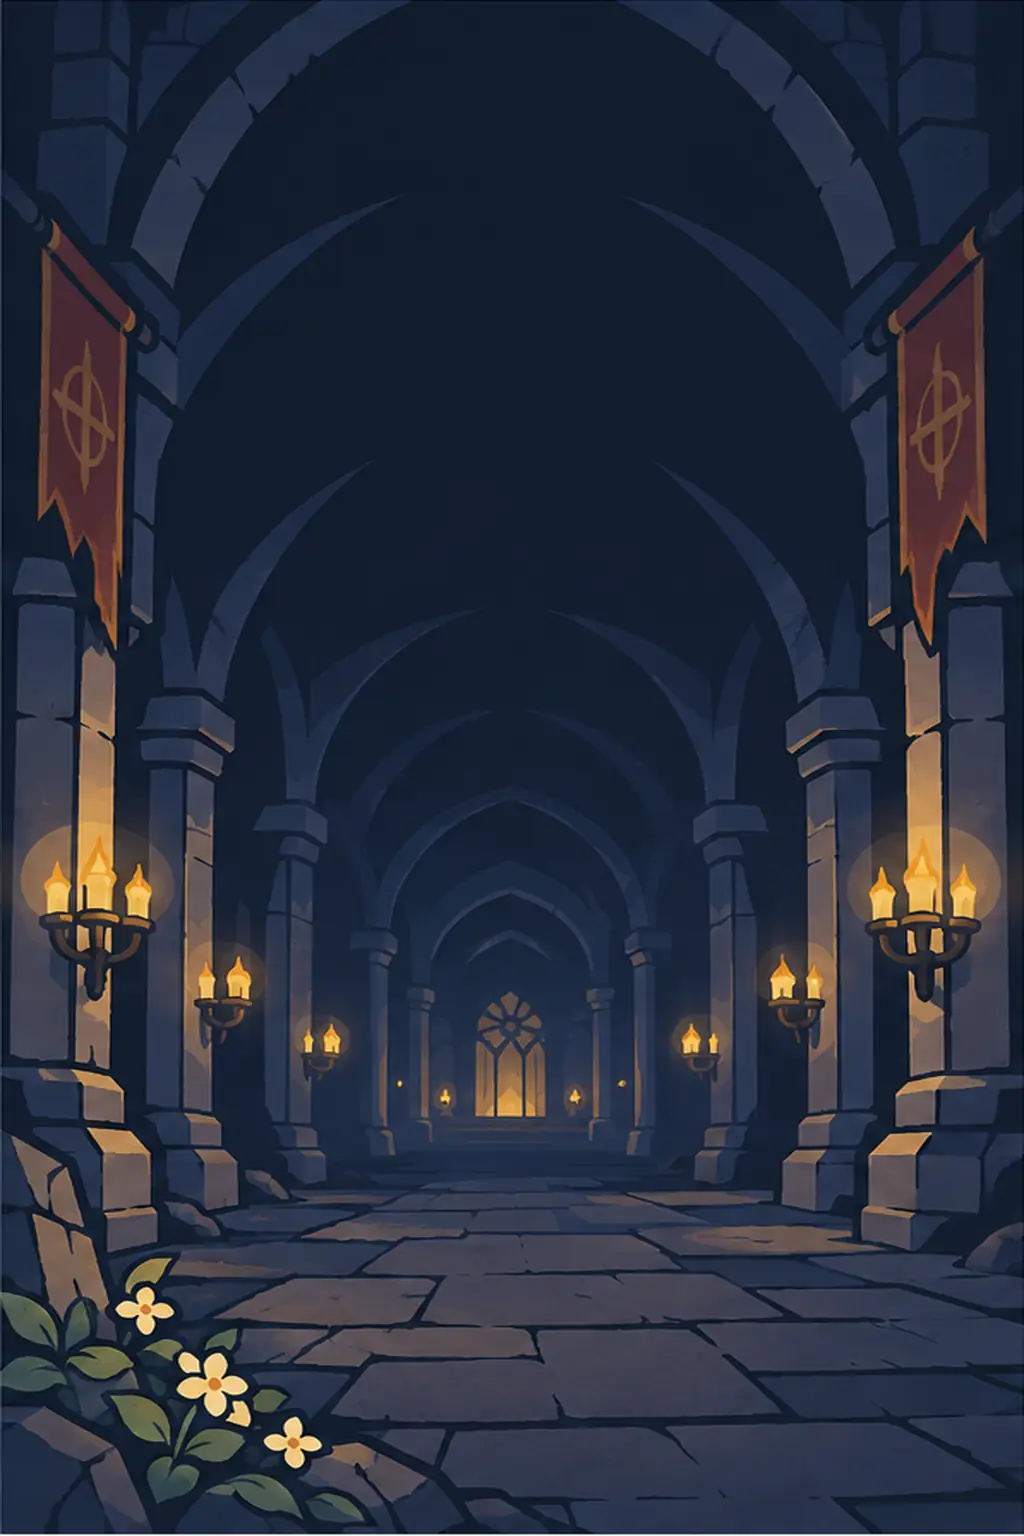
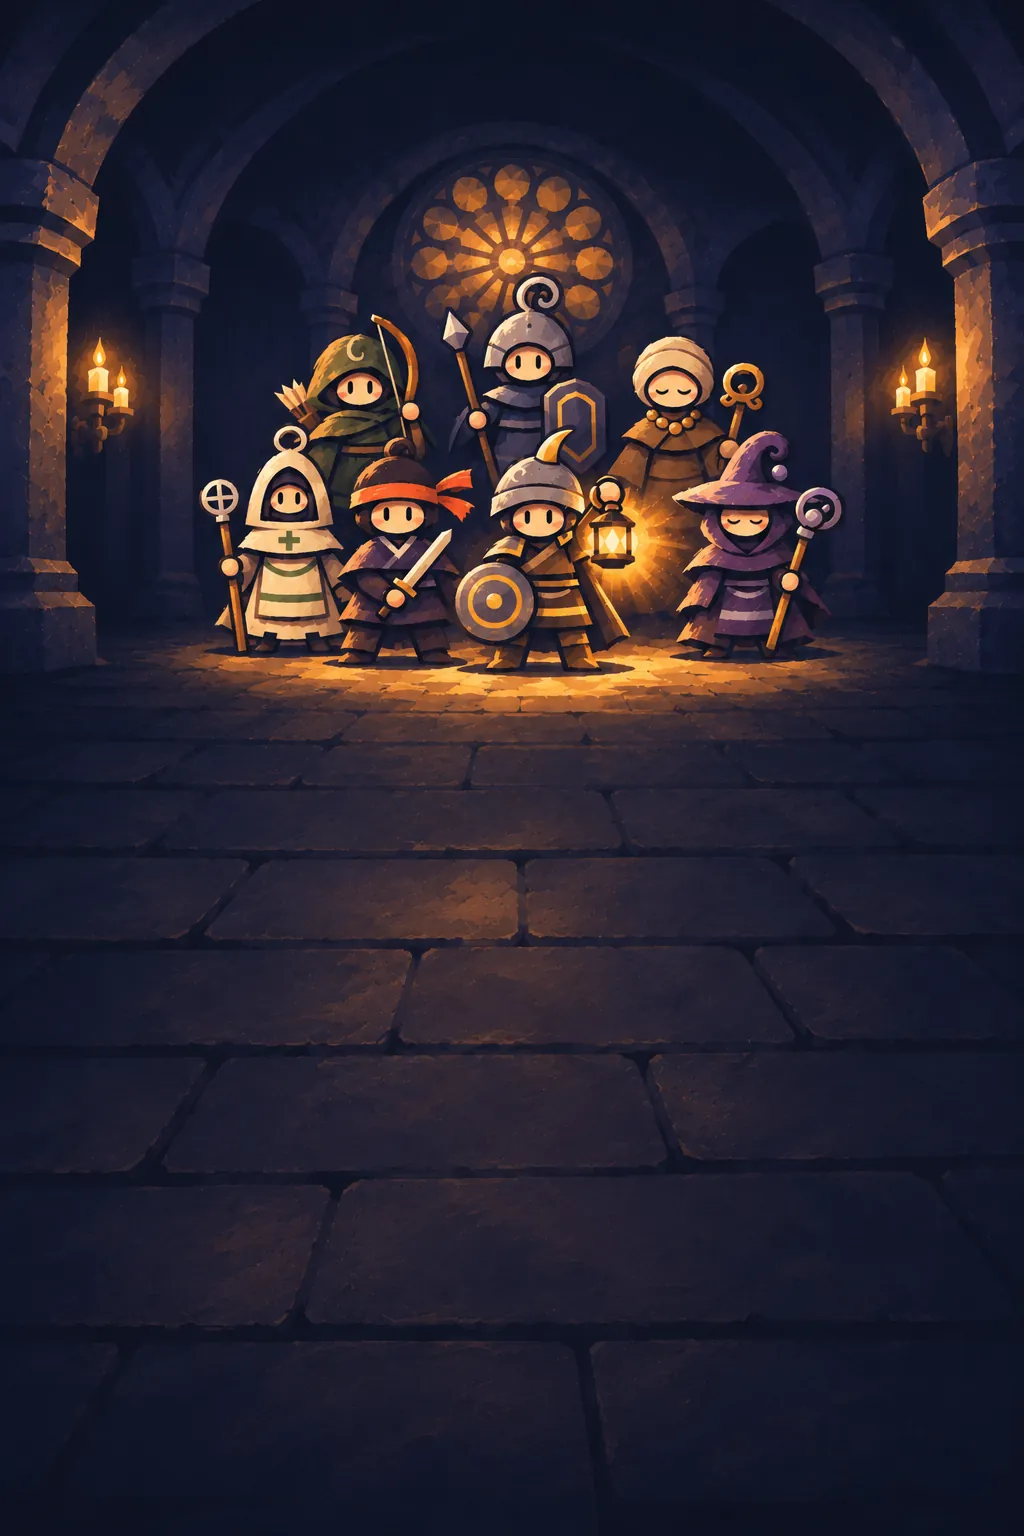
v5.9.2 タイトル画面の背景を7人の仲間の絵に、紋を隠す、v5822 の止まりを修正
Claude-Session: https://claude.ai/code/session_01RnNmxyYGAioQxQMbe1mS2M

diff --git a/index.html b/index.html
@@ -1712,7 +1712,13 @@ body { font-family: var(--sans); background: var(--vellum); font-feature-setting
 /* ---- 表紙 v5.8.4「灯を継ぐ隊列」：地の底の大聖堂の絵、金の題字、羊皮紙と革の板のボタン ----
    背景とボタンの板は img/ の WebP（ChatGPT で描いた素材を軽くしたもの）。キャラの紋はゲームの絵のまま */
 .cover, html:root[data-skin] .cover { background: #0b1019 url("img/bg_tall.webp") center top / cover no-repeat; }   /* 見た目（data-skin）ごとの表紙の背景より優先 */
-@media (min-aspect-ratio: 1/1) { .cover, html:root[data-skin] .cover { background-image: url("img/bg_wide.webp"); background-position: center; } }
+@media (min-aspect-ratio: 1/1) { .cover, html:root[data-skin] .cover { background-image: url("img/bg_wide.webp"); background-position: center 25%; } }
+/* v5.9.2：背景に7人の仲間が描かれたので、表紙の紋（丸い3つの顔）は隠す。場所は残し、題字とボタンの位置は変えない */
+.cover .orbit { visibility: hidden; }
+/* 縦に長い画面（390×844 など）：後ろの列の頭がキャッチコピーに重ならないよう、絵を少し下げて上を暗くつなぐ */
+@media (max-aspect-ratio: 1/2) { .cover, html:root[data-skin] .cover { background: linear-gradient(to bottom, #0b1019 0, rgba(11, 16, 25, 0) 12vh), url("img/bg_tall.webp") center 7vh / auto 100% no-repeat, #0b1019; } }
+/* 横長でも正方形に近い画面（タブレットの横持ち）：仲間を左に寄せ、題字の下まで下げる */
+@media (min-aspect-ratio: 1/1) and (max-aspect-ratio: 8/5) { .cover, html:root[data-skin] .cover { background: linear-gradient(to bottom, #0b1019 0, rgba(11, 16, 25, 0) 34vh), url("img/bg_wide.webp") left 16vh / auto 100% no-repeat, #0b1019; } }
 .cover::before { mix-blend-mode: normal; opacity: 1; background-image: linear-gradient(180deg, rgba(6, 9, 16, 0.55) 0%, rgba(6, 9, 16, 0.1) 34%, rgba(6, 9, 16, 0.08) 52%, rgba(6, 9, 16, 0.5) 76%, rgba(6, 9, 16, 0.78) 100%); }
 .c-star { width: 34px; height: 34px; margin-bottom: -16px; filter: drop-shadow(0 0 8px rgba(255, 214, 120, 0.85)); }
 .c-title { font-size: clamp(38px, 13vw, 60px); letter-spacing: 0.04em; line-height: 1.12; filter: drop-shadow(0 3px 0 rgba(0, 0, 0, 0.7)) drop-shadow(0 0 22px rgba(240, 190, 90, 0.35)); }
@@ -2992,7 +2998,7 @@ body.fast #stampOk.on { animation-duration: .5s; }
       <div class="d-row d-2"><span class="d-lbl">回復</span></div>
       <div class="d-tok" id="dt1" style="--p:0"></div><div class="d-tok" id="dt2" style="--p:1"></div><div class="d-tok" id="dt3" style="--p:2"></div>
     </div>
-    <p class="c-ver" id="cVer">ver 5.9.1</p>
+    <p class="c-ver" id="cVer">ver 5.9.2</p>
     <p class="c-copy">地の底の大聖堂「環廊」。<br>灯を受け渡し、隊列を回して奥へ。</p>
     <button class="c-press" id="press" type="button"><b class="disp">画面をタップしてはじめる</b><small>♪ 音が出ます</small></button>
     <div class="c-btns">
@@ -3512,7 +3518,7 @@ body.fast #stampOk.on { animation-duration: .5s; }
   ];
   const DEFAULT_FORM = [['warrior', 0, 0], ['knight', 0, 1], ['samurai', 0, 2], ['witch', 1, 0], ['archer', 1, 1], ['cleric', 2, 0], ['monk', 2, 1]];
   // 戦闘の追加ルール（値は tools/sim.mjs の自動対戦で調整。「一度も回さない」勝率を20%未満に）
-  const APP_VERSION = '5.9.1';
+  const APP_VERSION = '5.9.2';
   const RULES = { entry: true };
   const NORULES = { entry: false };
   const ENEMIES = [

diff --git a/tests/v5822.js b/tests/v5822.js
@@ -71,7 +71,8 @@ const phaseIs = async (p, list, n) => { for (let i = 0; i < (n || 400); i++) { c
     await p.evaluate(() => { document.getElementById('runv').hidden = true; window.__rb.beginExp('std', 3); }); await p.waitForTimeout(300);
     const res = [];
     for (let k = 0; k < 6 && res.length < 3; k++) {
-      await p.evaluate((k) => { const R = window.__rb; R.run.map = R.expFill(); const ids = Object.keys(R.run.map).filter((id) => R.ROUTE.nodes[id] && typeof R.run.map[id].foe === 'number' && R.routeChoice(id).type === 'battle'); const id = ids[k % ids.length], c = R.routeChoice(id);
+      await p.evaluate((k) => { const R = window.__rb; let ids = [];   // 地図によっては「番号の敵」の戦闘が1つも無い（およそ7枚に1枚）。そのときは地図を作り直す（v5.9.2：ここで止まることがあった）
+        for (let g = 0; g < 30 && !ids.length; g++) { R.run.map = R.expFill(); ids = Object.keys(R.run.map).filter((id) => R.ROUTE.nodes[id] && typeof R.run.map[id].foe === 'number' && R.routeChoice(id).type === 'battle'); } const id = ids[k % ids.length], c = R.routeChoice(id);
         R.run.members.forEach((m) => { m.hp = m.max; }); R.run.node = c.step - 1; R.run.enemy = R.expEnemy(c.step, 'eater', R.run.map[id].foe); document.getElementById('runv').hidden = true; R.toPrepForTest(); }, k);
       await p.waitForTimeout(200); await p.click('#btnStart').catch(() => {});
       for (let t = 0; t < 12 && res.length < 3; t++) {

diff --git a/sw.js b/sw.js
@@ -1,5 +1,5 @@
 /* 灯を継ぐ隊列 -LAST ROTATION-（旧名：ローグライク・ローテーションバトル） — オフラインでも遊べるようにするためのサービスワーカー */
-const VERSION = 'rb-5.9.1';
+const VERSION = 'rb-5.9.2';
 const SHELL = ['./', './index.html', './manifest.webmanifest', './icon-192.png', './icon-512.png', './icon-maskable-512.png', './apple-touch-icon.png', './favicon-32.png', './img/bg_tall.webp', './img/bg_wide.webp', './img/btn_gold.webp', './img/btn_dark.webp', './fonts/ShipporiMincho-700.woff', './fonts/ShipporiMincho-800.woff', './fonts/ZenKaku-500.woff', './fonts/ZenKaku-700.woff', './fonts/ZenKaku-900.woff'];
 
 self.addEventListener('install', (e) => {

diff --git a/LEARNINGS.md b/LEARNINGS.md
@@ -466,3 +466,4 @@
 - （v5.9.2）背景の絵は、画面の縦横比ごとに見え方が大きく変わる。縦長（1:2より細い）・ふつうの縦・横持ちスマホ・タブレット横の4つで並べて見てから位置を決める。横長の絵は、ボタンが右に来るので人物を左に寄せて描いてもらう。
 - （v5.9.2）`background` を複数の層で書くと、getComputedStyle の backgroundPosition も層の数だけ並ぶ。テストでは url の層を探してその位置を見る（最後の値が絵とは限らない）。
 - （v5.9.2）全テストの実行中や、テストを流しているあいだに git stash で作業ツリーを変えない。流しているテストの中身が途中で変わる。
+- （v5.9.2）v5822 の 1b は、深さ3の地図で「番号の敵」の戦闘が1つも無い地図（約7枚に1枚）を引くと、空の一覧から地点を選んで止まっていた。運しだいで通ったり止まったりするテストは、まず失敗する確率を数える（300枚中43枚）。地図は条件を満たすまで作り直すようにした。

diff --git a/CHANGELOG.md b/CHANGELOG.md
@@ -11,7 +11,7 @@
 - 背景に仲間がいるので、タイトルの丸い紋（仲間の顔3つ）を隠した。題字とボタンの位置は変えていない。
 - 縦に長い画面（390×844 など）では、仲間の頭がキャッチコピーに重ならないよう、絵を少し下げて上を暗くつないだ。
 - 横持ちでは、仲間を題字の下・ボタンの左に収めた（スマホは絵を少し下げ、タブレットは左に寄せて下げる）。
-- 内部：テスト tests/v592.js（絵の読み込み、紋が見えないこと、画面ごとの絵の位置）。
+- 内部：テスト tests/v592.js（絵の読み込み、紋が見えないこと、画面ごとの絵の位置）。tests/v5822.js が地図の運しだいで止まることがあったのを直した。
 
 ## ver 5.9.1
 - 冒頭の物語（初めの4枚・続きの3枚）を、小学生にも分かる言葉に書き直した（2026-11-18 承認）。言い回しを短く、難しい言葉（尽きぬ富・ほつれた・あまたの・喰らった など）をふだんの言葉に。
